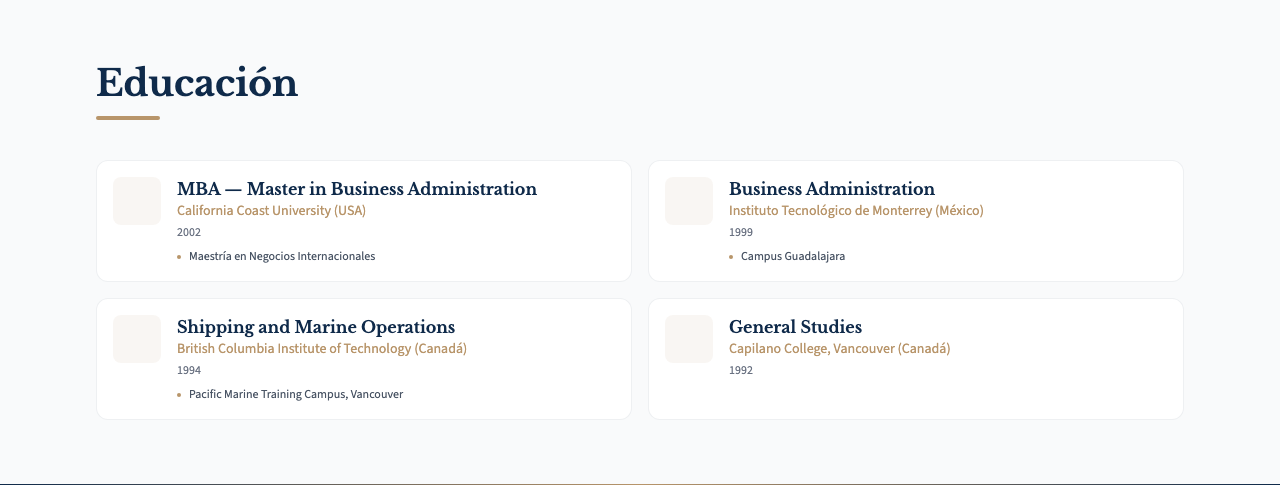
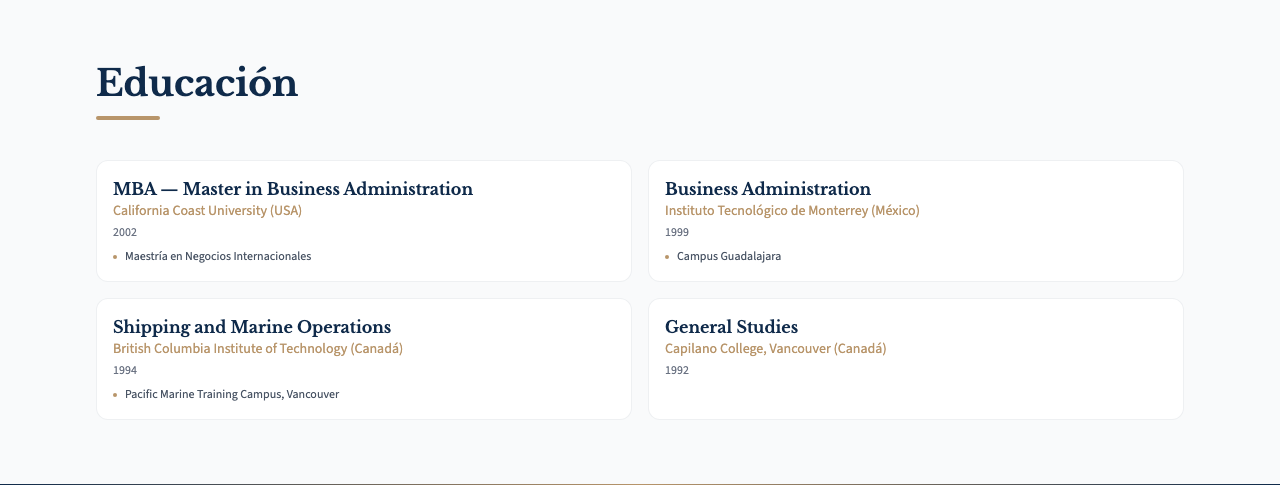
sync: source code at deploy time

diff --git a/src/config.ts b/src/config.ts
@@ -14,7 +14,7 @@ export const siteConfig = {
   ],
 
   tagline:
-    "No solo bilingüe — bicultural. 30+ años liderando operaciones de carga internacional entre Perú, Canadá, USA y México.",
+    "No solo bilingüe — bicultural. 30+ años liderando operaciones de carga internacional en Canadá, México, USA y Perú.",
 
   social: {
     email: "daniel.almendrades@seacargo.com",

diff --git a/qa-screenshots/qa-checklist.md b/qa-screenshots/qa-checklist.md
@@ -1,0 +1,88 @@
+# QA Report: Daniel Almendrades
+
+**Date:** 2026-04-21
+**URL:** https://daniel-almendrades.cofoundy.dev
+**Tier:** Pro S/.120
+**Template:** pro/pro-starter
+**Status:** PASS (after fix)
+
+## Technical Health
+- [x] HTML 200
+- [x] CSS 200 (/_astro/index.D0l4pzYI.css)
+- [x] favicon.svg 200
+- [x] guia.pdf 200
+- [x] cv.pdf 200
+- [ ] og.jpg 404 (WARNING — non-blocking, social previews won't show image)
+
+## Visual — Desktop (1280px)
+- [x] Styled correctly, no raw HTML
+- [x] Name renders "Daniel Almendrades" (serif, Libre Baskerville)
+- [x] Title "Executive Director | Logística Internacional" visible with beige underline
+- [x] DA monogram — large, square, navy gradient background, beige DA letters, double-border frame — renders perfectly
+- [x] Stats show: 30+ años | 4 países (Perú · Canadá · USA · México) | MBA
+- [x] Colors match palette: navy #0F2A4A headers, beige #B8956A accents
+- [x] Fonts loaded: Libre Baskerville (serif headers) + Source Sans 3 (body)
+- [x] All 5 sections render (Hero, About, Experience, Education, Footer) — no Projects section as expected
+- [x] No horizontal overflow
+- [x] Experience timeline: 7 numbered nodes with beige dots + year + company labels
+- [x] 7 experience cards in 2-column grid, balanced spacing
+- [x] Education: 4 cards in 2-column grid, clean typography
+- [x] Footer: Daniel Almendrades, title, social icons (email/whatsapp/linkedin), copyright 2026
+
+## Visual — Mobile (375px)
+- [x] Name fits, no horizontal overflow
+- [x] DA monogram scales down properly, still centered and visible
+- [x] Stats stack in single row with reduced type size — readable
+- [x] Section headers (Sobre Mí, Experiencia, Educación) legible
+- [x] Skills (14 chips) wrap naturally
+- [x] Experience cards stack vertically, 1 column — dates + company clear
+- [x] Education cards stack vertically, 1 column
+- [x] Footer adapts cleanly
+- [x] No horizontal scroll
+
+## Client Preferences (form match)
+- [x] Bicultural Peruvian-Canadian identity reflected (tagline: "No solo bilingüe — bicultural")
+- [x] 4 countries called out in stats (Perú · Canadá · USA · México)
+- [x] Professional/executive style matches 52yo logistics director profile
+- [x] Conservative color palette (navy + warm beige) appropriate for B2B executive
+- [x] No photo → DA initials monogram, looking sharp
+
+## Data Validation
+- [x] Name: Daniel Almendrades (matches research-notes)
+- [x] Email: daniel.almendrades@seacargo.com
+- [x] WhatsApp: +51 994 127 981
+- [x] LinkedIn: daniel-almendrades-574a2830 (real profile)
+- [x] Current role: Gerente Regional de Desarrollo @ SEA Cargo Logistics Perú (2024—Presente)
+- [x] 7 experience positions: SEA Cargo (2x), EMO Trans Perú, EMO Trans Houston, Geodis México (2x), Inchcape Vancouver
+- [x] 4 education entries: California Coast (MBA 2002), ITESM Guadalajara (1999), BCIT Vancouver (1994), Capilano College (1992)
+- [x] Dates consistent with 30+ years experience since 1994
+- [x] No hallucinated data
+
+## Clean Deploy
+- [x] No template artifacts ("Diego Quispe", etc.)
+- [x] No Lorem ipsum or placeholder markers
+- [x] No undefined/null in rendered output
+- [x] Social links point to real profiles
+- [x] Colors are custom (navy + beige), not defaults
+
+## Issues Found
+
+### CRITICAL (fixed)
+1. **Education logo placeholders rendered as empty beige squares** — The Education.astro component had outer `<div>` with `background-color: highlightColor15` that showed even when BrandIcon rendered nothing (no icons available for California Coast, ITESM, BCIT, Capilano). Visual artifact — 4 empty boxes next to each education card.
+   - **Fix:** Added `getIconInfo(edu.school).file !== null` check — placeholder div now only renders when an icon file exists. Result: clean cards with degree/school/date/achievements, no empty boxes.
+   - **Redeployed:** 2026-04-21 after fix, screenshots retaken, issue resolved.
+
+### WARNING (non-blocking)
+1. **og.jpg returns 404** — Open Graph image not generated. Social media shares (LinkedIn, WhatsApp previews) will fall back to default. Not critical for direct URL access but worth generating for LinkedIn sharing given the executive audience.
+
+## Evidence
+- qa-screenshots/desktop-full.png (full page desktop)
+- qa-screenshots/mobile-full.png (full page mobile)
+- qa-screenshots/desktop-hero.png, mobile-hero.png (DA monogram)
+- qa-screenshots/desktop-about.png, mobile-about.png (skills)
+- qa-screenshots/desktop-experience.png, mobile-experience.png (7 positions)
+- qa-screenshots/desktop-education.png, mobile-education.png (4 entries — post-fix, clean)
+- qa-screenshots/desktop-footer-4.png, mobile-footer-4.png
+
+## Final Verdict
+**PASS** — All critical issues resolved. Site is production-ready and delivery-ready. One non-blocking warning (og.jpg 404) noted for future polish but does not block delivery.
